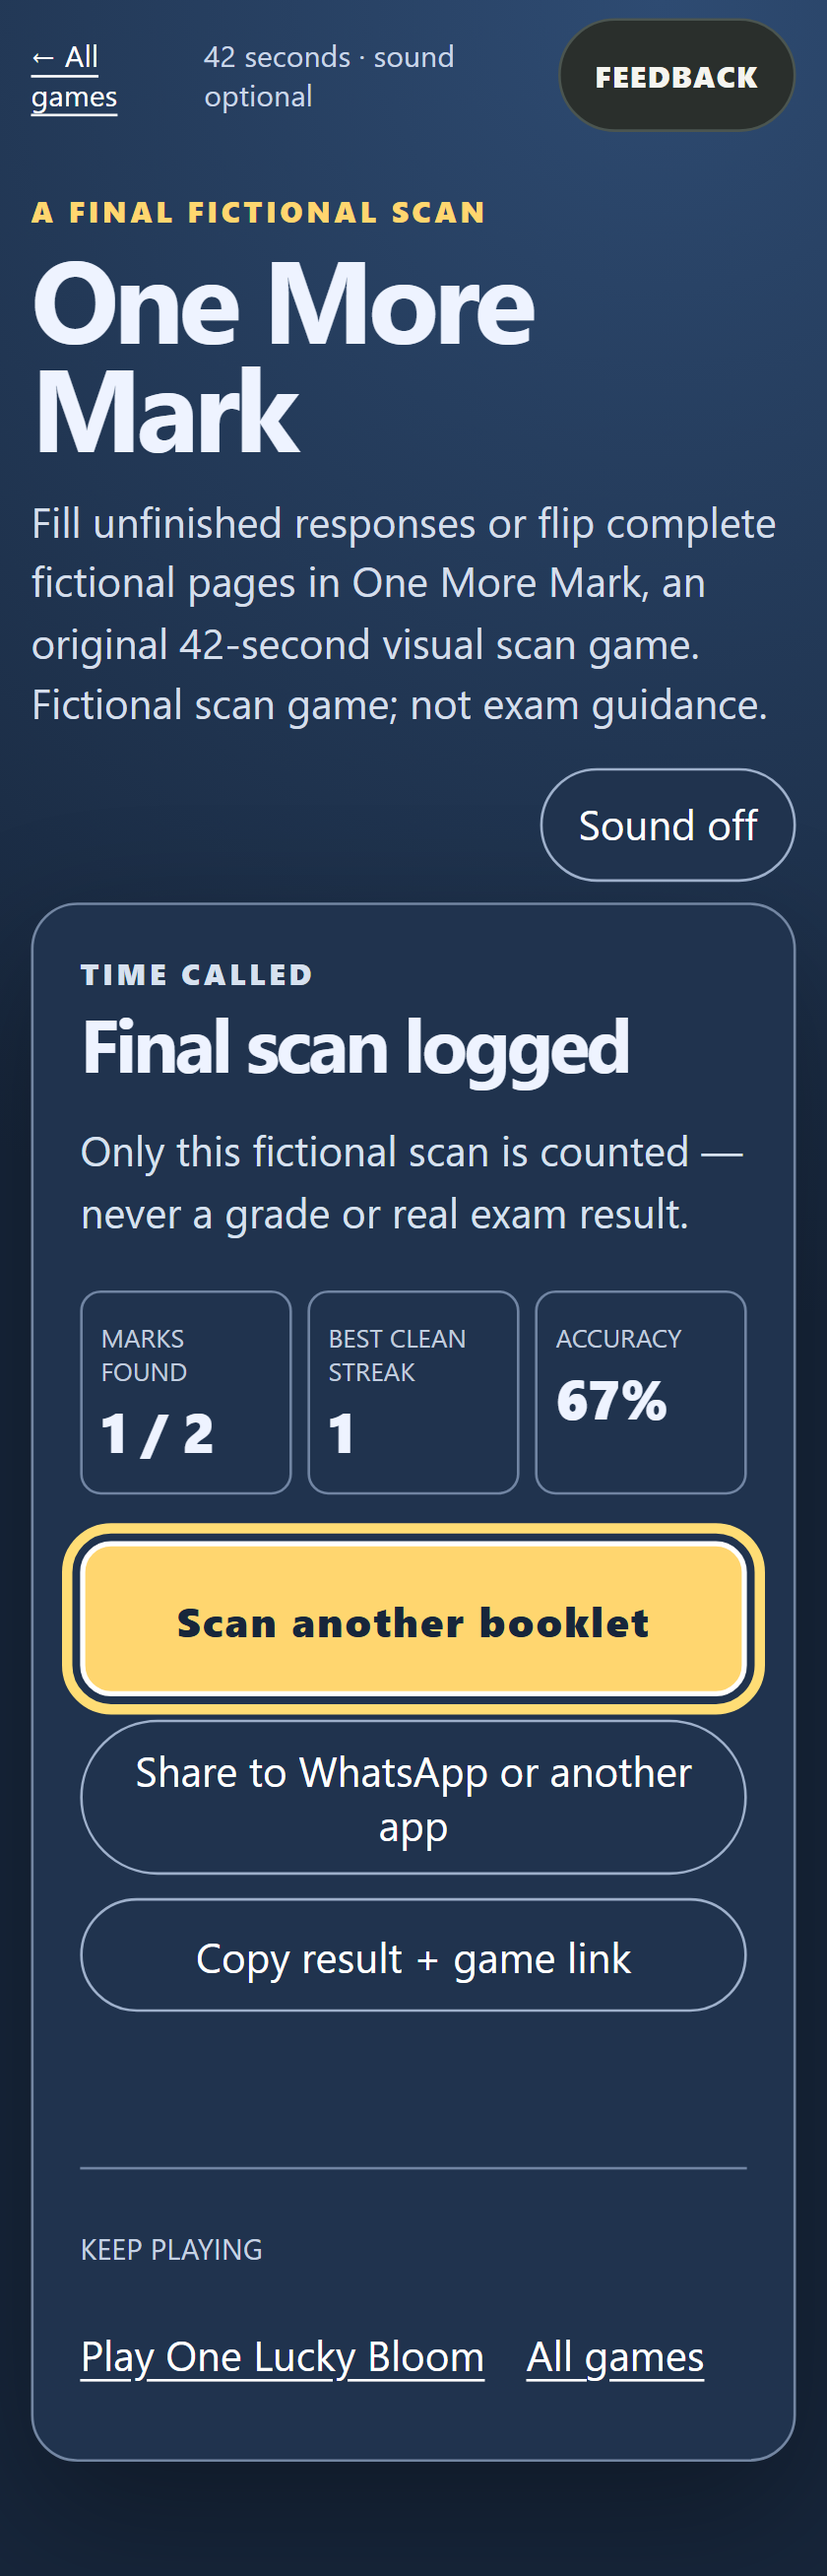
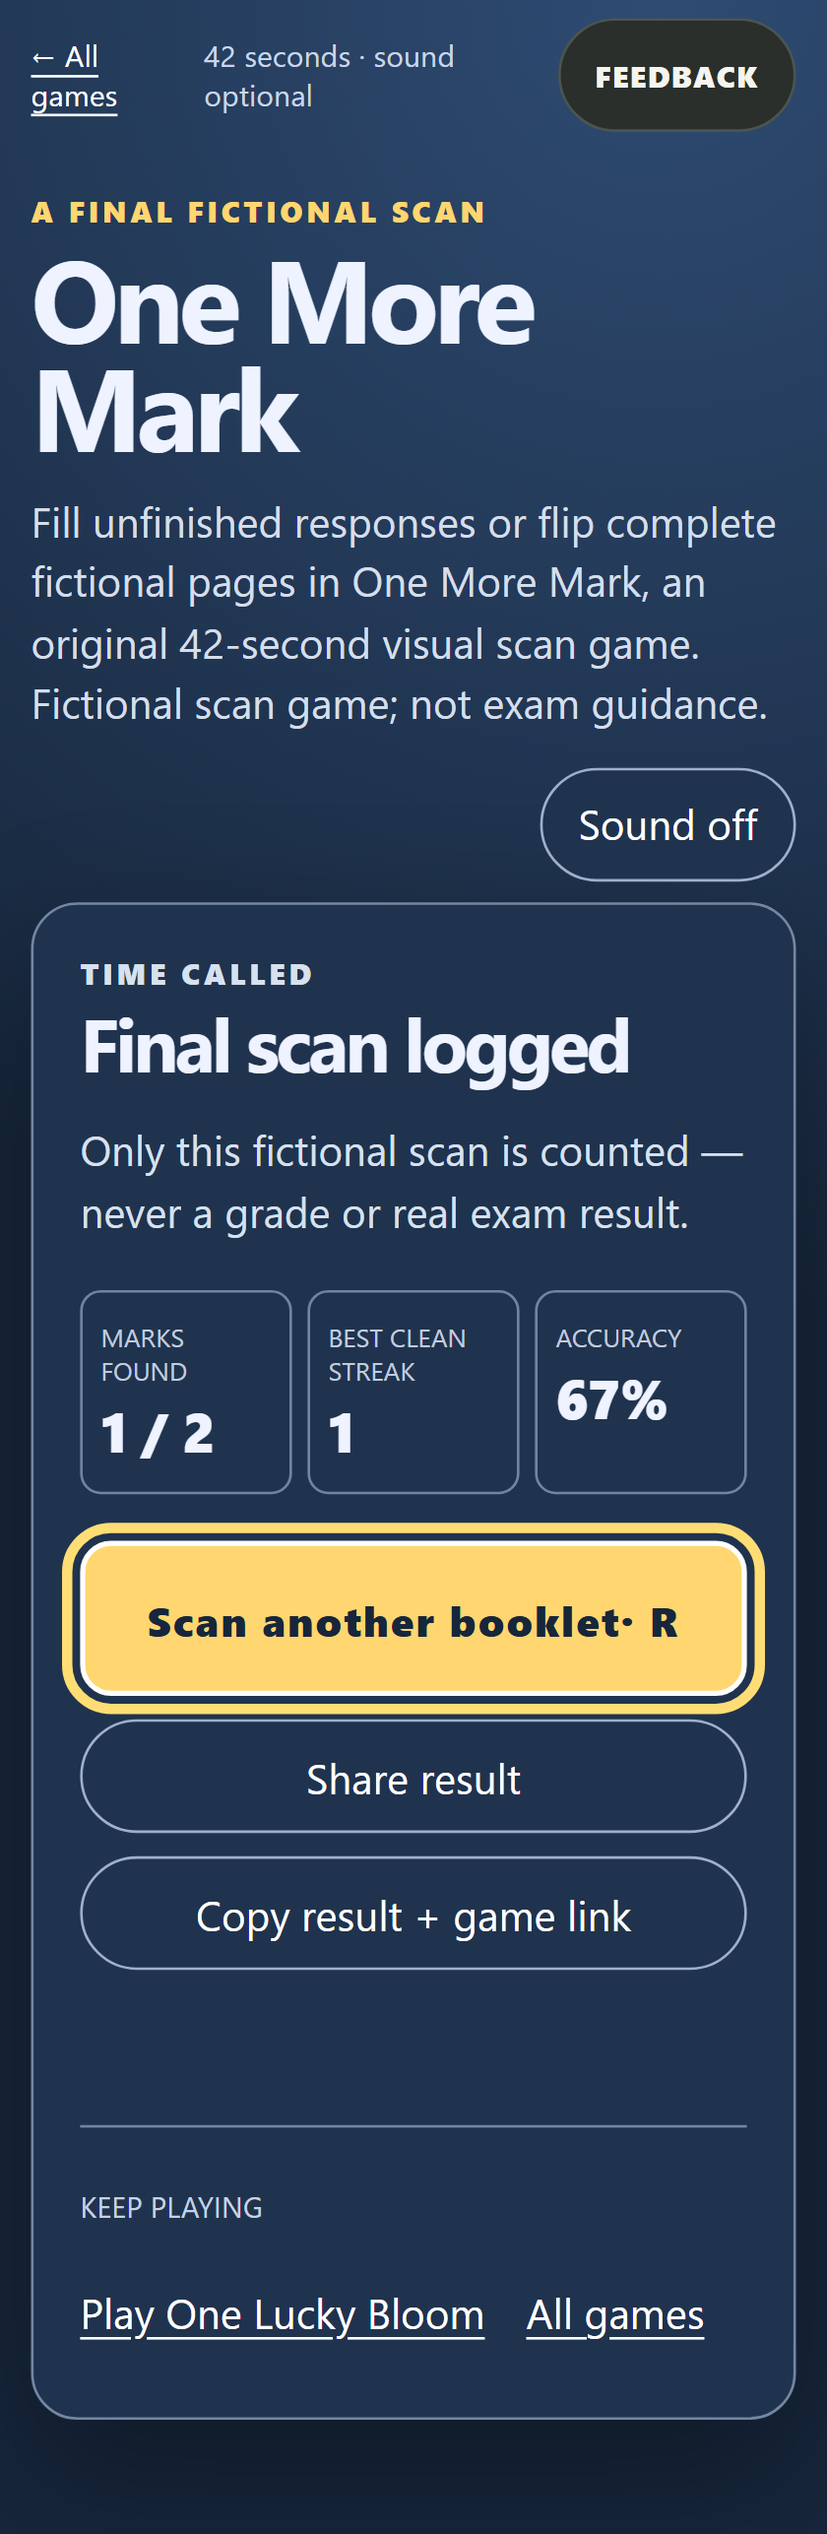
NOW-279: Repair result retry and share fallback

diff --git a/prototypes/one-more-mark/game.js b/prototypes/one-more-mark/game.js
@@ -147,10 +147,16 @@ sound.addEventListener("click", () => {
   sound.ariaPressed = String(soundOn);
 });
 window.addEventListener("keydown", (event) => {
-  if (result.hidden && !event.repeat && !isEditableTarget(event.target)) {
-    const action = event.key === "f" || event.key === "F" || event.key === " " ? "fill" : event.key === "ArrowRight" || event.key === "Enter" ? "flip" : null;
-    if (action) { event.preventDefault(); act(action); }
+  if (event.repeat || isEditableTarget(event.target)) return;
+  if (!result.hidden) {
+    if (event.key === "r" || event.key === "R") {
+      event.preventDefault();
+      start(retryGame(game));
+    }
+    return;
   }
+  const action = event.key === "f" || event.key === "F" || event.key === " " ? "fill" : event.key === "ArrowRight" || event.key === "Enter" ? "flip" : null;
+  if (action) { event.preventDefault(); act(action); }
 });
 document.addEventListener("visibilitychange", () => document.hidden ? pause("background") : resume("background"));
 window.addEventListener("blur", () => pause("blur"));

diff --git a/prototypes/one-more-mark/index.html b/prototypes/one-more-mark/index.html
@@ -65,8 +65,8 @@
           <div><dt>Best clean streak</dt><dd id="final-streak">0</dd></div>
           <div><dt>Accuracy</dt><dd id="final-accuracy">0%</dd></div>
         </dl>
-        <button id="retry" class="primary" type="button">Scan another booklet</button>
-        <button id="share-result" class="action" type="button">Share to WhatsApp or another app</button>
+        <button id="retry" class="primary" type="button" aria-keyshortcuts="R">Scan another booklet <span aria-hidden="true">&middot; R</span></button>
+        <button id="share-result" class="action" type="button">Share result</button>
         <button id="copy-link" class="action" type="button">Copy result + game link</button>
         <p id="share-status" class="share-status" role="status" aria-live="polite"></p>
         <nav class="more-games" aria-label="More NowNow Games">

diff --git a/prototypes/one-more-mark/state.js b/prototypes/one-more-mark/state.js
@@ -105,7 +105,7 @@ export function shareData(result) {
 
 export async function shareResult(result, navigatorTarget = globalThis.navigator) {
   const data = shareData(result);
-  if (navigatorTarget?.share) {
+  if (typeof navigatorTarget?.share === "function") {
     try {
       await navigatorTarget.share(data);
       return "shared";
@@ -113,8 +113,10 @@ export async function shareResult(result, navigatorTarget = globalThis.navigator
       if (error?.name === "AbortError") return "cancelled";
     }
   }
+  const clipboard = navigatorTarget?.clipboard;
+  if (typeof clipboard?.writeText !== "function") return "failed";
   try {
-    await navigatorTarget?.clipboard?.writeText(`${data.text}\n${data.url}`);
+    await clipboard.writeText(`${data.text}\n${data.url}`);
     return "copied";
   } catch {
     return "failed";
